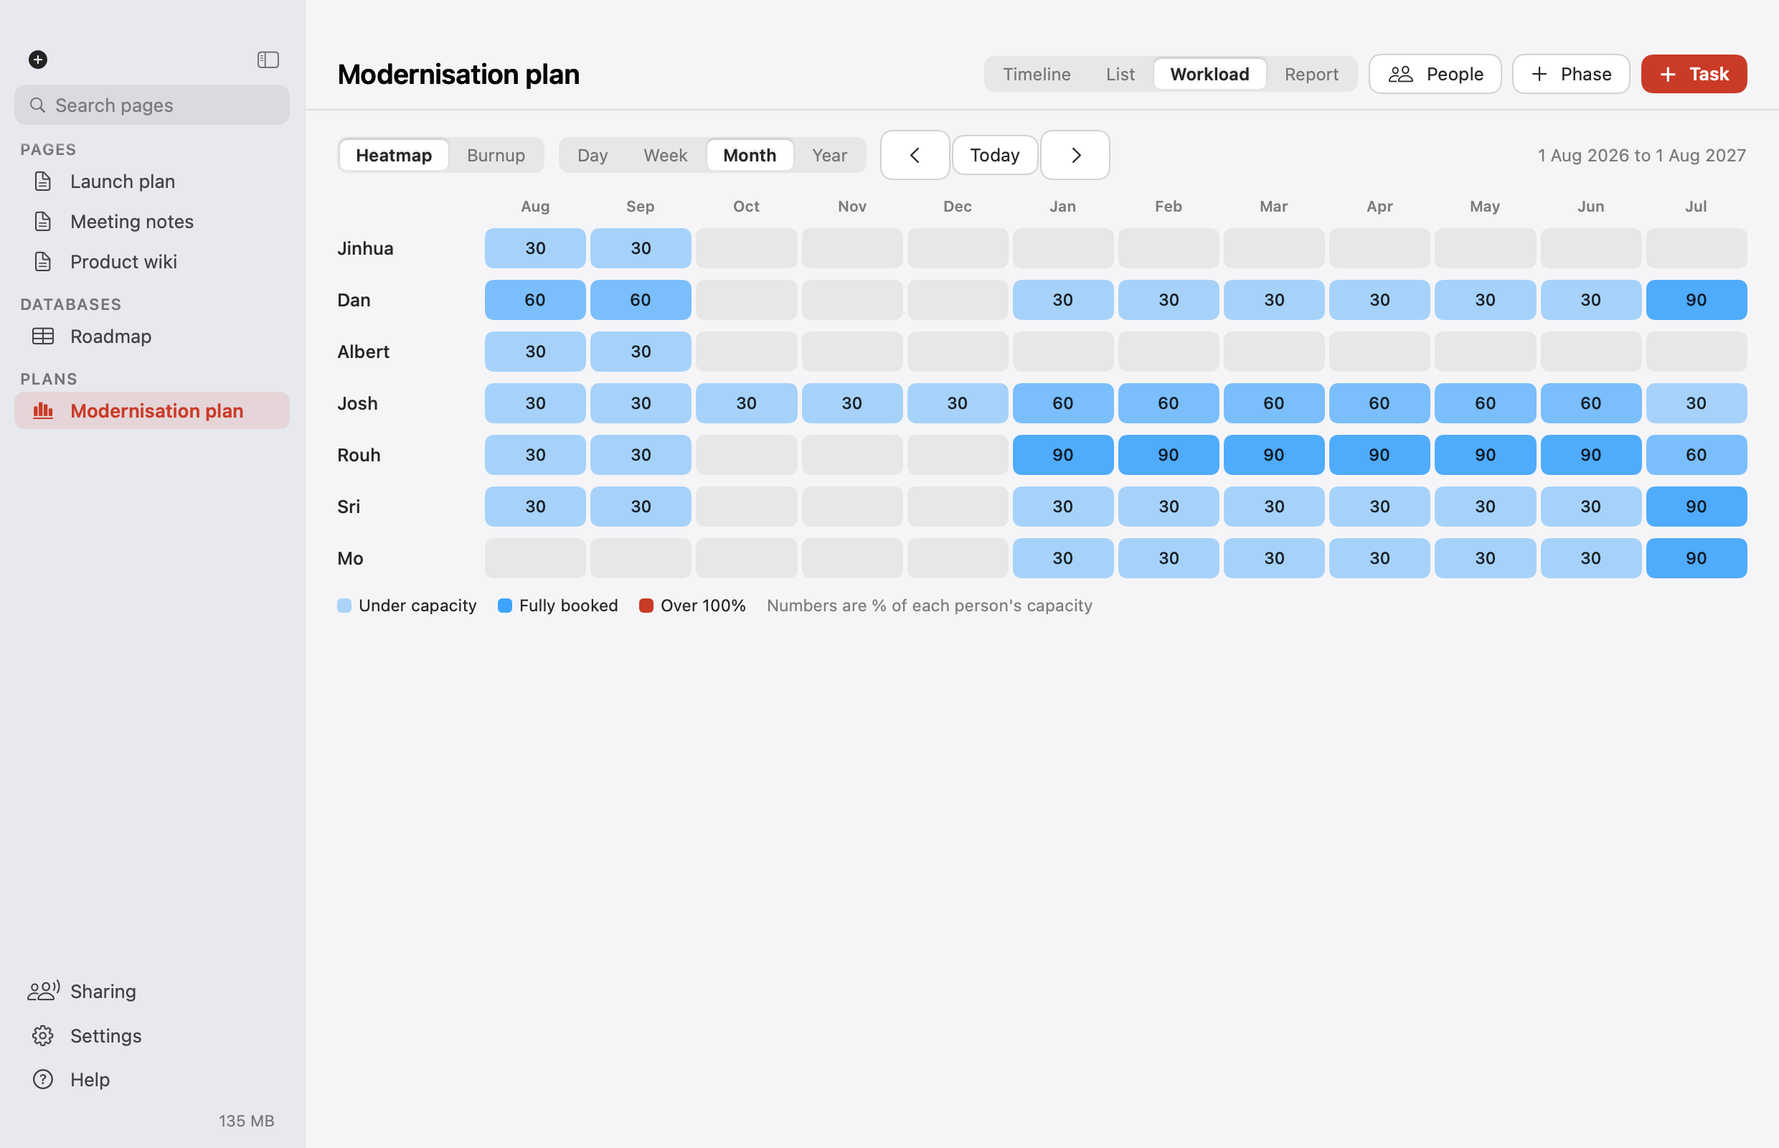
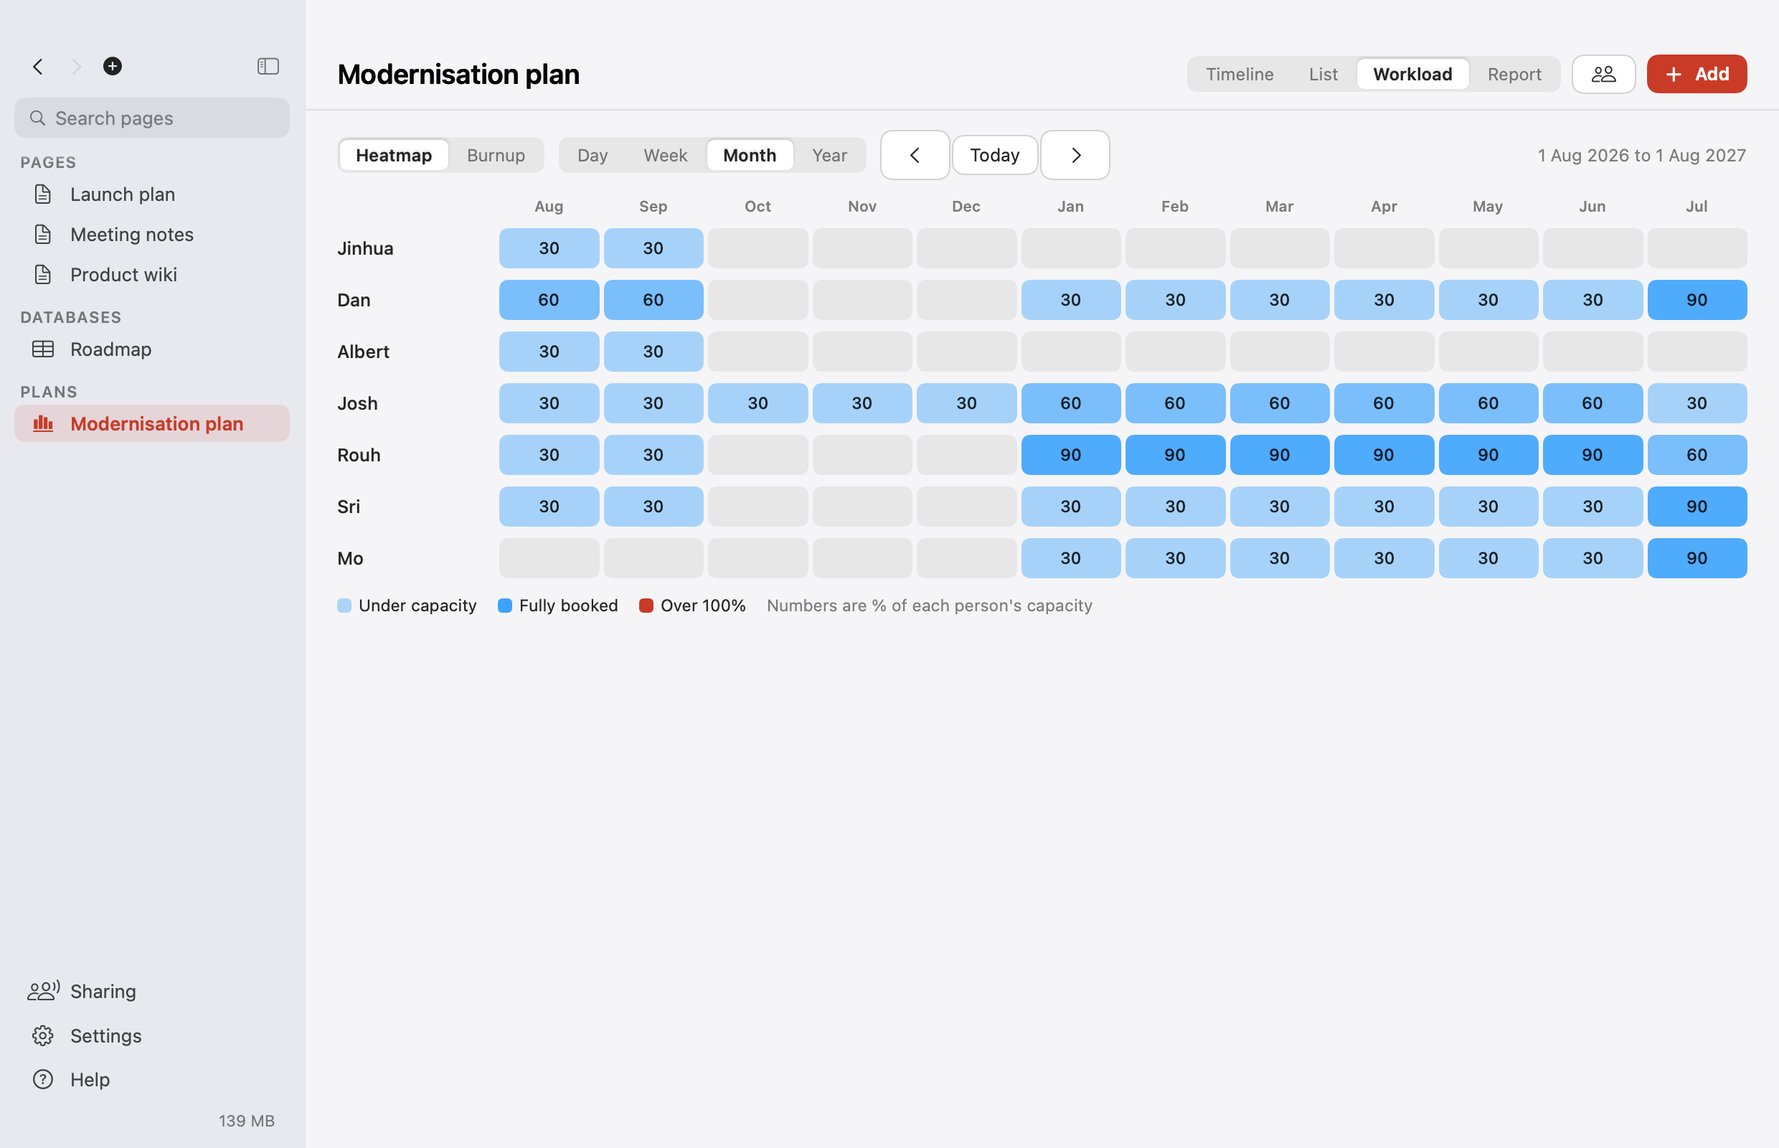
Simplify the plan screen: fewer controls, one colour, no cut-off names
The plan header keeps the view tabs, a People icon and one Add menu. The
report's three buttons become one Share menu. Resources use flat rows with
hairlines instead of bubbles, one muted colour for bars and the grid, and
names that wrap instead of truncating. Docs screenshots refreshed.

diff --git a/Sources/Antsly/PlanInsights.swift b/Sources/Antsly/PlanInsights.swift
@@ -65,15 +65,16 @@ struct Workload: View {
 
     private var heat: some View {
         let ps = periods
+        let nameW = min(200, max(110, CGFloat(plan.people.map(\.name.count).max() ?? 10) * 7.5))
         return VStack(alignment: .leading, spacing: 8) {
             if plan.people.isEmpty { Text("Add people to see their workload.").foregroundStyle(.secondary) }
             HStack(spacing: 3) {
-                Text("").frame(width: 100)
+                Text("").frame(width: nameW)
                 ForEach(ps) { p in Text(p.label).font(.system(size: 10.5, weight: .semibold)).foregroundStyle(.secondary).frame(maxWidth: .infinity) }
             }
             ForEach(plan.people) { person in
                 HStack(spacing: 3) {
-                    Text(person.name).font(.system(size: 12.5, weight: .medium)).lineLimit(1).frame(width: 100, alignment: .leading)
+                    Text(person.name).font(.system(size: 12.5, weight: .medium)).fixedSize(horizontal: false, vertical: true).frame(width: nameW, alignment: .leading)
                     ForEach(ps) { p in
                         let weekend = gran == .day && [1, 7].contains(utc.component(.weekday, from: p.a))
                         let u = weekend ? 0 : PlanMath.utilization(person: person, in: plan, from: p.a, to: p.b)
@@ -157,11 +158,13 @@ struct ReportView: View {
         VStack(spacing: 0) {
             HStack(spacing: 10) {
                 Segmented(options: [(V.summary, "Summary"), (.resources, "Resources")], selection: $view)
-                Text("Generated \(Date().formatted(date: .abbreviated, time: .omitted))").font(.system(size: 12)).foregroundStyle(.secondary)
                 Spacer()
-                Button("Copy Markdown") { Clipboard.copy(PlanMath.markdown(plan, report: r, now: Date())); AppModel.shared.show("Report copied.") }.buttonStyle(Pill())
-                Button("Export PDF") { exportPDF(r) }.buttonStyle(Pill())
-                Button("Save as page") { saveAsPage(r) }.buttonStyle(Pill(kind: .primary))
+                Menu {
+                    Button("Copy as Markdown") { Clipboard.copy(PlanMath.markdown(plan, report: r, now: Date())); AppModel.shared.show("Report copied.") }
+                    Button("Export PDF…") { exportPDF(r) }
+                    Button("Save as page") { saveAsPage(r) }
+                } label: { Label("Share", systemImage: "square.and.arrow.up") }
+                    .menuStyle(.button).buttonStyle(Pill()).menuIndicator(.hidden).fixedSize().help("Copy, export or save this report")
             }.padding(.horizontal, 22).padding(.vertical, 10)
             Divider()
             StyledScroll {
@@ -173,17 +176,15 @@ struct ReportView: View {
 
     private func content(_ r: PlanMath.Report) -> some View {
         VStack(alignment: .leading, spacing: 14) {
-            HStack(spacing: 10) {
-                kpi("\(r.total)", "tasks in \(plan.phases.count) phases"); kpi("\(r.completed)", "completed, \(r.inProgress) in progress")
-                kpi("\(r.atRisk)", "at risk", Theme.warn); kpi("\(r.critical)", "on the critical path", Theme.accent)
-            }
+            StatStrip(stats: [("\(r.total)", "tasks in \(plan.phases.count) phases"), ("\(r.completed)", "completed, \(r.inProgress) in progress"),
+                             ("\(r.atRisk)", "at risk"), ("\(r.critical)", "on the critical path")])
             HStack(alignment: .top, spacing: 22) {
                 VStack(alignment: .leading, spacing: 10) {
                     SectionLabel("Progress by phase")
                     ForEach(Array(r.phaseProgress.enumerated()), id: \.offset) { i, p in
                         VStack(alignment: .leading, spacing: 4) {
                             HStack { Text(p.name).font(.system(size: 12.5)); Spacer(); Text("\(p.percent)%").font(.system(size: 12.5, weight: .semibold)) }
-                            ProgressView(value: Double(p.percent), total: 100).tint(i < plan.phases.count ? Color(hex: plan.phases[i].color) : Theme.accent)
+                            ProgressView(value: Double(p.percent), total: 100).tint(Color.secondary)
                         }
                     }
                 }.frame(maxWidth: .infinity, alignment: .leading)
@@ -202,11 +203,6 @@ struct ReportView: View {
         VStack(alignment: .leading, spacing: 2) { Text(t).font(.system(size: 12, weight: .semibold)); Text(d).font(.system(size: 12.5)).foregroundStyle(.secondary).fixedSize(horizontal: false, vertical: true) }
             .padding(10).frame(maxWidth: .infinity, alignment: .leading).background(Theme.card, in: RoundedRectangle(cornerRadius: 8)).overlay(RoundedRectangle(cornerRadius: 8).stroke(Theme.hairline))
     }
-    private func kpi(_ v: String, _ l: String, _ c: Color = .primary) -> some View {
-        VStack(alignment: .leading, spacing: 1) { Text(v).font(.system(size: 22, weight: .semibold)).foregroundStyle(c); Text(l).font(.system(size: 11.5)).foregroundStyle(.secondary) }
-            .frame(maxWidth: .infinity, alignment: .leading).card(padding: 10)
-    }
-
     private func saveAsPage(_ r: PlanMath.Report) {
         var page = PageMarkdown.parse(PlanMath.markdown(plan, report: r, now: Date()), fallbackID: UUID().uuidString, updated: Date().timeIntervalSince1970)
         page.id = UUID().uuidString
@@ -233,7 +229,24 @@ struct ReportView: View {
     }
 }
 
+/// A row of numbers separated by hairlines. Quieter than a card per number, and the labels wrap instead of being cut off.
+struct StatStrip: View {
+    let stats: [(String, String)]
+    var body: some View {
+        HStack(alignment: .top, spacing: 0) {
+            ForEach(Array(stats.enumerated()), id: \.offset) { i, s in
+                VStack(alignment: .leading, spacing: 2) {
+                    Text(s.0).font(.system(size: 22, weight: .semibold)).monospacedDigit()
+                    Text(s.1).font(.system(size: 11.5)).foregroundStyle(.secondary).fixedSize(horizontal: false, vertical: true)
+                }.frame(maxWidth: .infinity, alignment: .leading).padding(.leading, i == 0 ? 0 : 16)
+                if i < stats.count - 1 { Rectangle().fill(Theme.hairline).frame(width: 1, height: 38) }
+            }
+        }
+    }
+}
+
 /// Who does how much: by phase and task in person-days, a person by phase table, and over-capacity flags.
+/// Deliberately one calm colour: phase colours belong to the timeline, and red is kept for people who are over capacity.
 struct ResourcesContent: View {
     let plan: Plan
     @Binding var collapsed: Set<String>
@@ -242,16 +255,13 @@ struct ResourcesContent: View {
 
     var body: some View {
         let a = PlanMath.allocation(plan)
-        VStack(alignment: .leading, spacing: 16) {
+        VStack(alignment: .leading, spacing: 20) {
             if a.total == 0 {
                 Text("Assign people to tasks to see who does how much.").font(.system(size: 13)).foregroundStyle(.secondary).frame(maxWidth: .infinity, minHeight: 120)
             } else {
-                HStack(spacing: 10) {
-                    kpi(fmt(a.total), "person-days in the plan")
-                    kpi("\(a.peopleCount)", "people allocated")
-                    kpi(fmt(a.total / Double(max(plan.tasks.count, 1))), "average per task")
-                    kpi(a.top?.name ?? "None", "largest share, \(fmt(a.top?.days ?? 0)) person-days", Theme.accent)
-                }
+                StatStrip(stats: [(fmt(a.total), "person-days in the plan"), ("\(a.peopleCount)", a.peopleCount == 1 ? "person allocated" : "people allocated"),
+                                  (fmt(a.total / Double(max(plan.tasks.count, 1))), "average per task"),
+                                  (fmt(a.top?.days ?? 0), "largest share: \(a.top?.name ?? "none")")])
                 let flags = a.phases.filter { !$0.overloaded.isEmpty }
                 if !flags.isEmpty {
                     VStack(alignment: .leading, spacing: 4) {
@@ -259,99 +269,101 @@ struct ResourcesContent: View {
                         ForEach(flags) { p in
                             ForEach(p.overloaded, id: \.name) { o in Text("\(o.name) reaches \(Int(o.days))% during \(p.name)").font(.system(size: 12.5)).foregroundStyle(.secondary) }
                         }
-                    }.padding(10).frame(maxWidth: .infinity, alignment: .leading).background(Theme.accentSoft, in: RoundedRectangle(cornerRadius: 8))
+                    }.padding(10).frame(maxWidth: .infinity, alignment: .leading).background(Theme.accentSoft, in: RoundedRectangle(cornerRadius: 6))
                 }
-                SectionLabel("By phase and task")
-                table(a)
-                SectionLabel("Person-days by person and phase")
-                matrix(a)
+                VStack(alignment: .leading, spacing: 8) { SectionLabel("By phase and task"); table(a) }
+                VStack(alignment: .leading, spacing: 8) { SectionLabel("Person-days by person and phase"); matrix(a) }
                 Text("Click a phase to expand or collapse its tasks. Person-days are days per week times weeks, per person.").font(.system(size: 11.5)).foregroundStyle(.secondary)
             }
         }
     }
 
+    /// Flat rows with hairlines. A phase is a bold line, its tasks sit under it, nothing is a bubble.
     private func table(_ a: Allocation) -> some View {
         VStack(spacing: 0) {
-            HStack(spacing: 8) {
+            HStack(alignment: .firstTextBaseline, spacing: 16) {
                 Text("PHASE / TASK").frame(maxWidth: .infinity, alignment: .leading)
-                Text("PEOPLE, PERSON-DAYS EACH").frame(width: 300, alignment: .leading)
-                Text("PER WEEK").frame(width: 80, alignment: .leading)
+                Text("PEOPLE").frame(width: 260, alignment: .leading)
                 Text("PERSON-DAYS").frame(width: 84, alignment: .trailing)
-                Text("SHARE").frame(width: 120, alignment: .leading)
-            }.font(.system(size: 10.5, weight: .semibold)).foregroundStyle(.secondary).padding(.horizontal, 10).padding(.vertical, 6)
+                Text("SHARE").frame(width: 110, alignment: .leading)
+            }.font(.system(size: 10.5, weight: .semibold)).foregroundStyle(.secondary).padding(.vertical, 6)
             Divider()
             ForEach(a.phases) { ph in
                 let open = !collapsed.contains(ph.id)
                 Button { if open { collapsed.insert(ph.id) } else { collapsed.remove(ph.id) } } label: {
-                    HStack(spacing: 8) {
+                    HStack(alignment: .firstTextBaseline, spacing: 16) {
                         HStack(spacing: 6) {
                             Image(systemName: open ? "chevron.down" : "chevron.right").font(.system(size: 9, weight: .bold)).foregroundStyle(.secondary).frame(width: 10)
-                            Circle().fill(Color(hex: ph.color)).frame(width: 9, height: 9)
-                            Text(ph.name).font(.system(size: 12.5, weight: .semibold)).lineLimit(2)
-                            if !ph.overloaded.isEmpty { Image(systemName: "exclamationmark.triangle.fill").font(.system(size: 10)).foregroundStyle(Theme.accent).help("Someone is over capacity in this phase") }
+                            Text(ph.name).font(.system(size: 13, weight: .semibold)).fixedSize(horizontal: false, vertical: true)
+                            if !ph.overloaded.isEmpty { Image(systemName: "exclamationmark.triangle.fill").font(.system(size: 10)).foregroundStyle(Theme.danger).help("Someone is over capacity in this phase") }
                         }.frame(maxWidth: .infinity, alignment: .leading)
-                        chips(ph.people, limit: 3).frame(width: 300, alignment: .leading)
-                        Spacer().frame(width: 80)
-                        Text(fmt(ph.personDays)).font(.system(size: 12.5, weight: .semibold)).frame(width: 84, alignment: .trailing)
-                        shareBar(ph.share, Color(hex: ph.color)).frame(width: 120)
-                    }.padding(.horizontal, 10).padding(.vertical, 6).background(Theme.fill).contentShape(Rectangle())
+                        Text(ph.people.map(\.name).joined(separator: ", ")).font(.system(size: 12.5)).foregroundStyle(.secondary).fixedSize(horizontal: false, vertical: true).frame(width: 260, alignment: .leading)
+                        Text(fmt(ph.personDays)).font(.system(size: 13, weight: .semibold)).monospacedDigit().frame(width: 84, alignment: .trailing)
+                        shareBar(ph.share).frame(width: 110, alignment: .leading)
+                    }.padding(.vertical, 9).contentShape(Rectangle())
                 }.buttonStyle(.plain)
+                Divider()
                 if open {
                     ForEach(ph.tasks) { t in
-                        HStack(spacing: 8) {
-                            Text(t.name).font(.system(size: 12.5)).lineLimit(2).padding(.leading, 38).frame(maxWidth: .infinity, alignment: .leading)
-                            chips(t.people, limit: 4).frame(width: 300, alignment: .leading)
-                            Text(t.daysPerWeek == 0 ? "" : "\(String(format: "%.1f", t.daysPerWeek)) days each").font(.system(size: 11.5)).foregroundStyle(.secondary).frame(width: 80, alignment: .leading)
-                            Text(fmt(t.personDays)).font(.system(size: 12.5)).frame(width: 84, alignment: .trailing)
-                            Text("\(String(format: "%.1f", t.share * 100))%").font(.system(size: 11.5)).foregroundStyle(.secondary).frame(width: 120, alignment: .leading)
-                        }.padding(.horizontal, 10).padding(.vertical, 4)
+                        HStack(alignment: .firstTextBaseline, spacing: 16) {
+                            Text(t.name).font(.system(size: 12.5)).fixedSize(horizontal: false, vertical: true).padding(.leading, 26).frame(maxWidth: .infinity, alignment: .leading)
+                            people(t.people).frame(width: 260, alignment: .leading)
+                            Text(fmt(t.personDays)).font(.system(size: 12.5)).monospacedDigit().frame(width: 84, alignment: .trailing)
+                            Text(t.daysPerWeek == 0 ? "" : "\(String(format: "%.1f", t.daysPerWeek)) days/week").font(.system(size: 11.5)).foregroundStyle(.secondary).frame(width: 110, alignment: .leading)
+                        }.padding(.vertical, 6)
                         Divider().opacity(0.5)
                     }
                 }
             }
-        }.background(Theme.card, in: RoundedRectangle(cornerRadius: 10)).overlay(RoundedRectangle(cornerRadius: 10).stroke(Theme.hairline))
+        }
     }
 
-    private func chips(_ people: [Allocation.Share], limit: Int) -> some View {
-        HStack(spacing: 4) {
-            ForEach(Array(people.prefix(limit)), id: \.name) { s in
-                HStack(spacing: 3) { Text(s.name); Text(fmt(s.days)).fontWeight(.semibold) }.font(.system(size: 11)).padding(.horizontal, 7).padding(.vertical, 1).background(Theme.fill, in: Capsule())
-            }
-            if people.count > limit { Text("+\(people.count - limit)").font(.system(size: 11)).foregroundStyle(.secondary) }
-        }.lineLimit(1)
-    }
-
-    private func shareBar(_ share: Double, _ color: Color) -> some View {
+    /// One person per line, name on the left and days on the right, so a name never runs into a number.
+    private func people(_ shares: [Allocation.Share]) -> some View {
         VStack(alignment: .leading, spacing: 2) {
-            ProgressView(value: min(1, share * 3)).tint(color)
+            ForEach(shares, id: \.name) { s in
+                HStack(spacing: 8) {
+                    Text(s.name).font(.system(size: 12.5)).fixedSize(horizontal: false, vertical: true)
+                    Spacer(minLength: 4)
+                    Text(fmt(s.days)).font(.system(size: 12)).monospacedDigit().foregroundStyle(.secondary)
+                }
+            }
+        }
+    }
+
+    private func shareBar(_ share: Double) -> some View {
+        VStack(alignment: .leading, spacing: 3) {
+            GeometryReader { g in
+                ZStack(alignment: .leading) {
+                    Rectangle().fill(Theme.fill)
+                    Rectangle().fill(Color.secondary.opacity(0.7)).frame(width: g.size.width * min(1, max(0, share)))
+                }
+            }.frame(height: 4)
             Text("\(Int((share * 100).rounded()))% of plan").font(.system(size: 11)).foregroundStyle(.secondary)
         }
     }
 
+    /// People down the side, phases across. Names get the width they need (up to a limit) and wrap beyond it, so none is cut.
     private func matrix(_ a: Allocation) -> some View {
         let peak = a.matrix.values.flatMap(\.values).max() ?? 1
+        let nameW = min(200, max(110, CGFloat(a.people.map(\.count).max() ?? 10) * 7.5))
         return VStack(spacing: 3) {
-            HStack(spacing: 3) {
-                Text("").frame(width: 100)
-                ForEach(a.phases) { ph in HStack(spacing: 4) { Circle().fill(Color(hex: ph.color)).frame(width: 7, height: 7); Text(ph.name.components(separatedBy: " ").first(where: { !$0.contains(".") && !$0.isEmpty }) ?? ph.name).lineLimit(1) }.font(.system(size: 10.5, weight: .semibold)).foregroundStyle(.secondary).frame(maxWidth: .infinity) }
+            HStack(alignment: .bottom, spacing: 3) {
+                Text("").frame(width: nameW)
+                ForEach(a.phases) { ph in Text(ph.name).font(.system(size: 10.5, weight: .semibold)).foregroundStyle(.secondary).multilineTextAlignment(.center).fixedSize(horizontal: false, vertical: true).frame(maxWidth: .infinity) }
                 Text("Total").font(.system(size: 10.5, weight: .semibold)).foregroundStyle(.secondary).frame(width: 64)
             }
             ForEach(a.people, id: \.self) { n in
                 let row = a.phases.map { a.matrix[n]?[$0.id] ?? 0 }
                 HStack(spacing: 3) {
-                    Text(n).font(.system(size: 12.5, weight: .medium)).lineLimit(1).frame(width: 100, alignment: .leading)
+                    Text(n).font(.system(size: 12.5, weight: .medium)).fixedSize(horizontal: false, vertical: true).frame(width: nameW, alignment: .leading)
                     ForEach(Array(row.enumerated()), id: \.offset) { _, v in
-                        Text(v == 0 ? "" : fmt(v)).font(.system(size: 11.5)).frame(maxWidth: .infinity).frame(height: 26)
-                            .background(v == 0 ? Theme.fill : Color.blue.opacity(0.12 + v / peak * 0.6), in: RoundedRectangle(cornerRadius: 6))
+                        Text(v == 0 ? "" : fmt(v)).font(.system(size: 11.5)).monospacedDigit().frame(maxWidth: .infinity).frame(height: 26)
+                            .background(v == 0 ? Theme.fill : Color.secondary.opacity(0.1 + v / peak * 0.3), in: RoundedRectangle(cornerRadius: 3))
                     }
-                    Text(fmt(row.reduce(0, +))).font(.system(size: 12, weight: .semibold)).frame(width: 64)
+                    Text(fmt(row.reduce(0, +))).font(.system(size: 12, weight: .semibold)).monospacedDigit().frame(width: 64)
                 }
             }
         }
-    }
-
-    private func kpi(_ v: String, _ l: String, _ c: Color = .primary) -> some View {
-        VStack(alignment: .leading, spacing: 1) { Text(v).font(.system(size: 22, weight: .semibold)).foregroundStyle(c).lineLimit(1); Text(l).font(.system(size: 11.5)).foregroundStyle(.secondary).lineLimit(2) }
-            .frame(maxWidth: .infinity, alignment: .leading).card(padding: 10)
     }
 }

diff --git a/Sources/Antsly/PlanView.swift b/Sources/Antsly/PlanView.swift
@@ -34,7 +34,7 @@ struct PlanView: View {
                     PaneHeader(title: "", subtitle: nil, trailing: { controls }, tabs: { EmptyView() })
                         .overlay(alignment: .leading) {
                             TextField("Plan name", text: Binding(get: { plan.title }, set: { v in ws.editPlan(id) { $0.title = v } })).textFieldStyle(.plain)
-                                .font(.system(size: 19, weight: .semibold)).padding(.leading, 22).padding(.top, 26).padding(.trailing, 560)
+                                .font(.system(size: 19, weight: .semibold)).padding(.leading, 22).padding(.top, 26).padding(.trailing, 420)
                         }
                     switch nav.planTab {
                     case .timeline: Timeline(plan: plan, edit: { editing = $0 })
@@ -57,9 +57,12 @@ struct PlanView: View {
     @ViewBuilder private var controls: some View {
         HStack(spacing: 8) {
             Segmented(options: [(Tab.timeline, "Timeline"), (Tab.list, "List"), (Tab.workload, "Workload"), (Tab.report, "Report")], selection: Binding(get: { nav.planTab }, set: { nav.planTab = $0 }))
-            Button { showPeople = true } label: { Label("People", systemImage: "person.2") }.buttonStyle(Pill())
-            Button { addPhase() } label: { Label("Phase", systemImage: "plus") }.buttonStyle(Pill())
-            Button { addTask() } label: { Label("Task", systemImage: "plus") }.buttonStyle(Pill(kind: .primary))
+            Button { showPeople = true } label: { Image(systemName: "person.2") }.buttonStyle(Pill()).help("People and capacity").accessibilityLabel("People")
+            Menu {
+                Button("New task") { addTask() }
+                Button("New phase") { addPhase() }
+            } label: { Label("Add", systemImage: "plus") }
+                .menuStyle(.button).buttonStyle(Pill(kind: .primary)).menuIndicator(.hidden).fixedSize()
         }
     }
 
